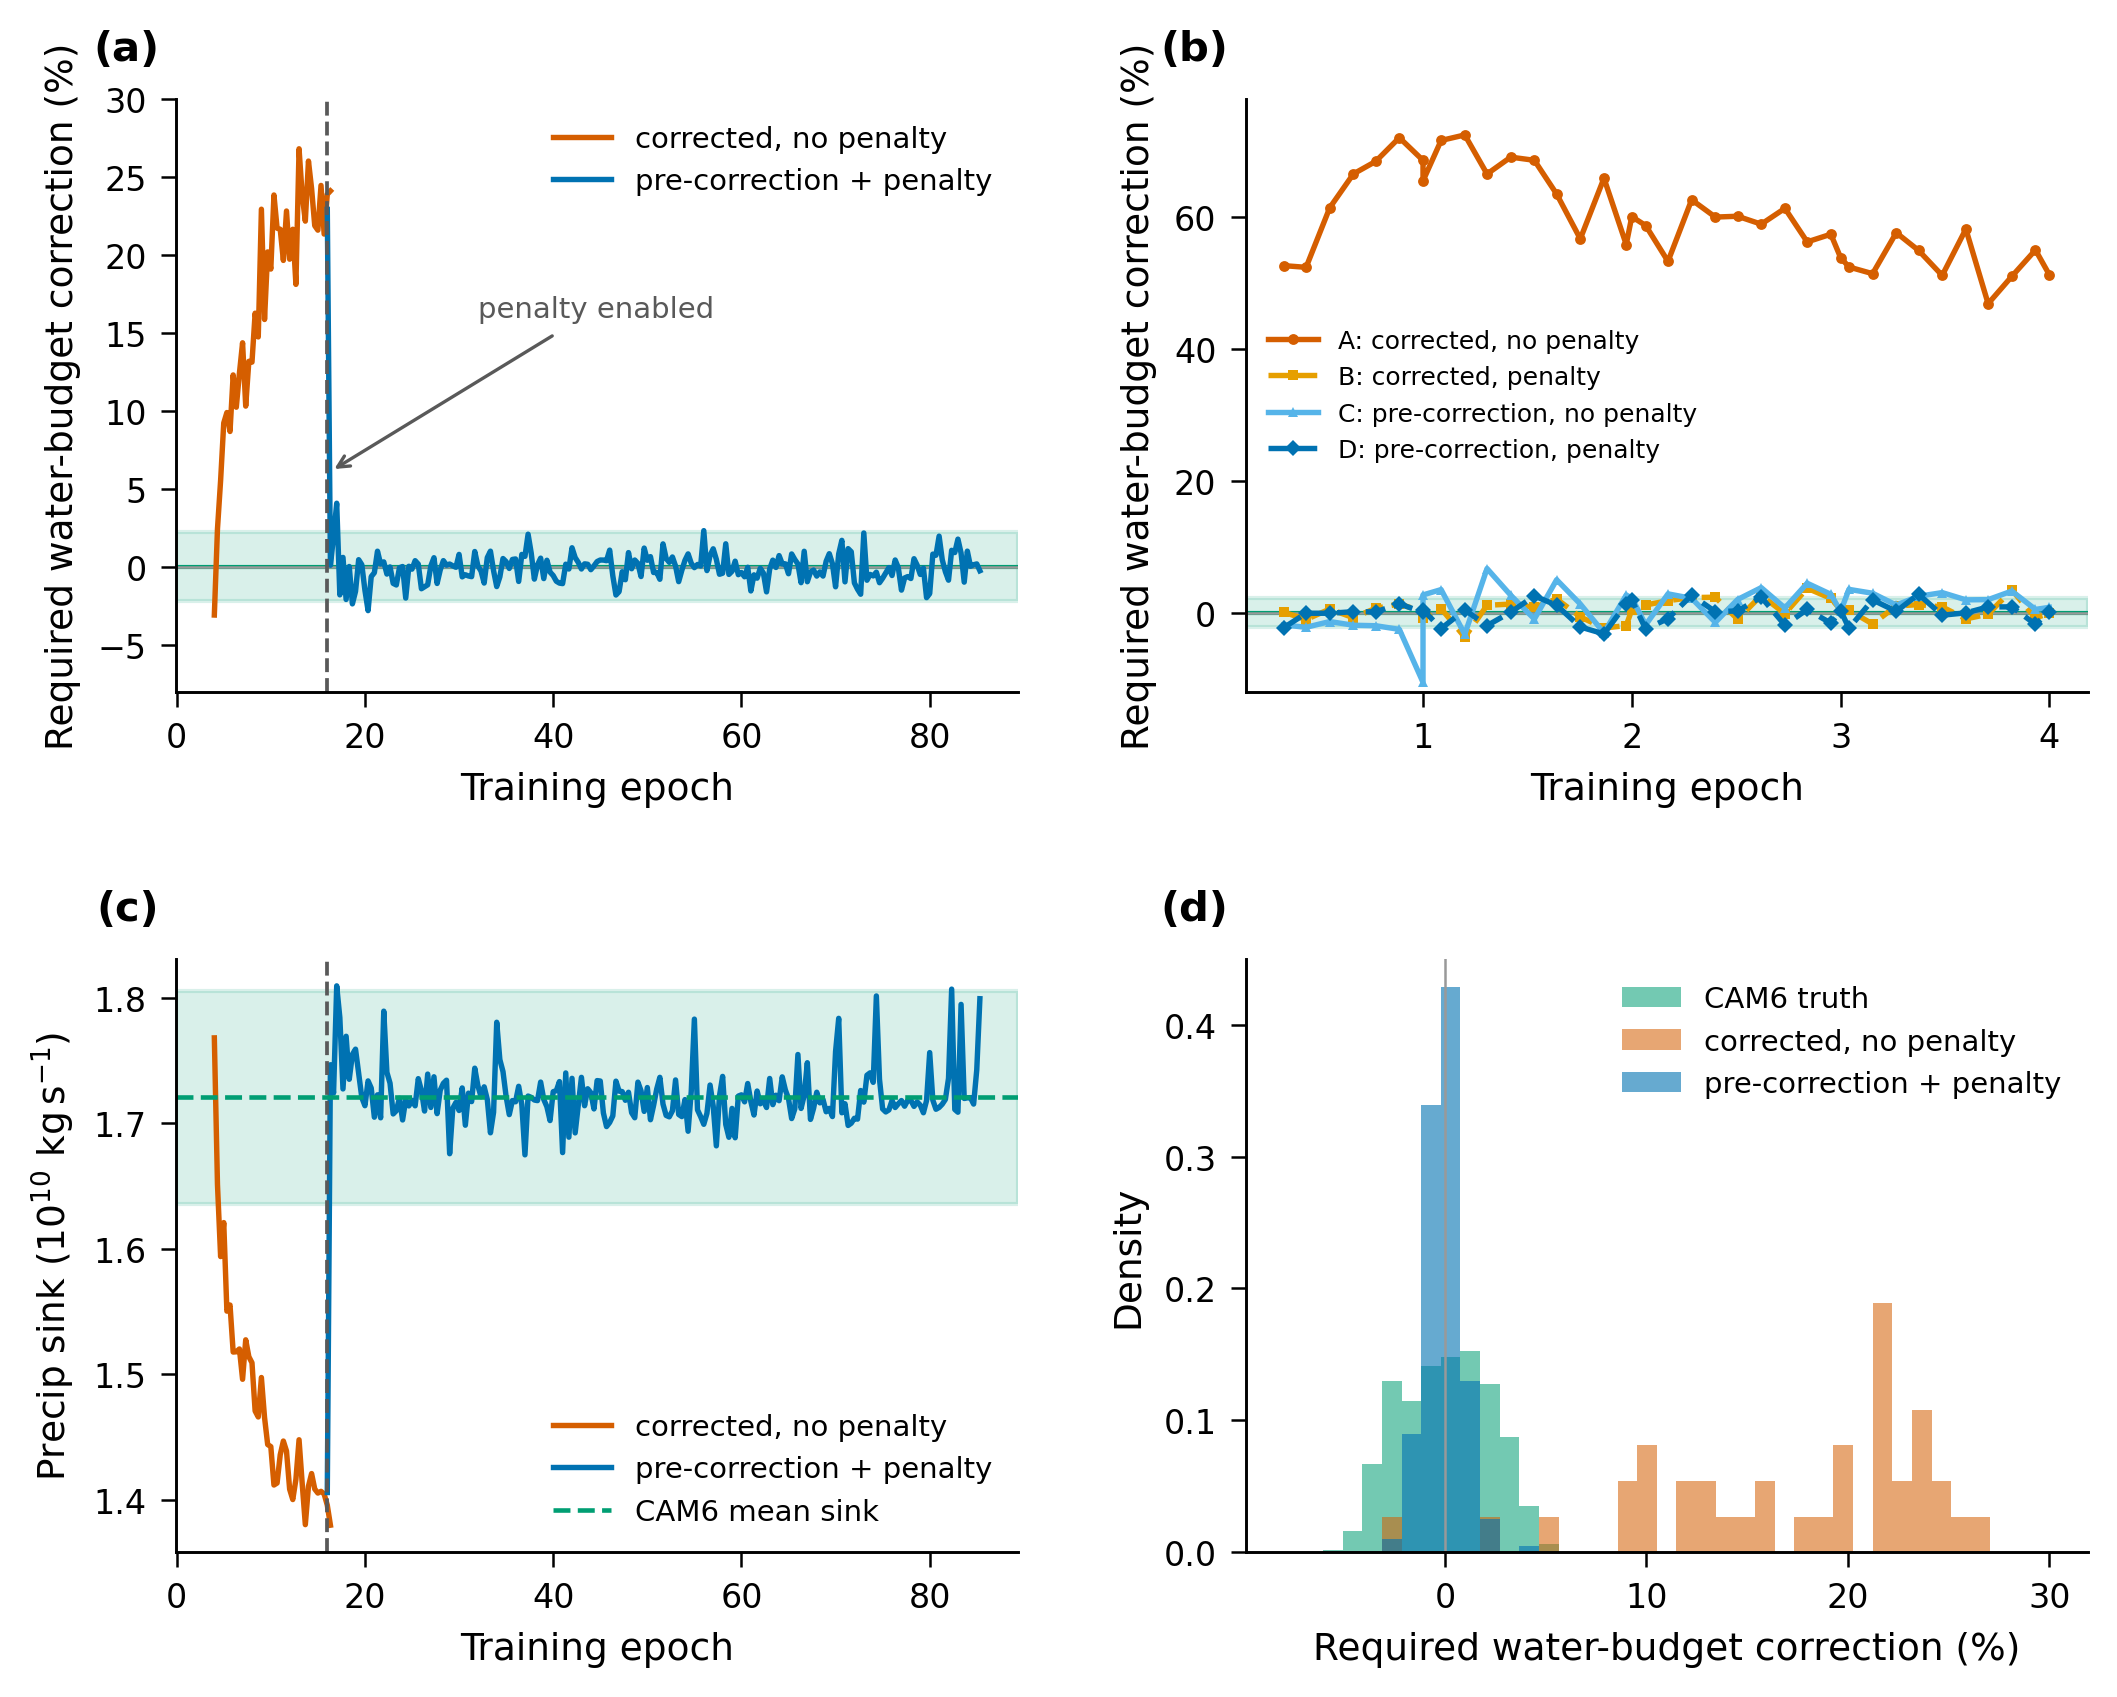
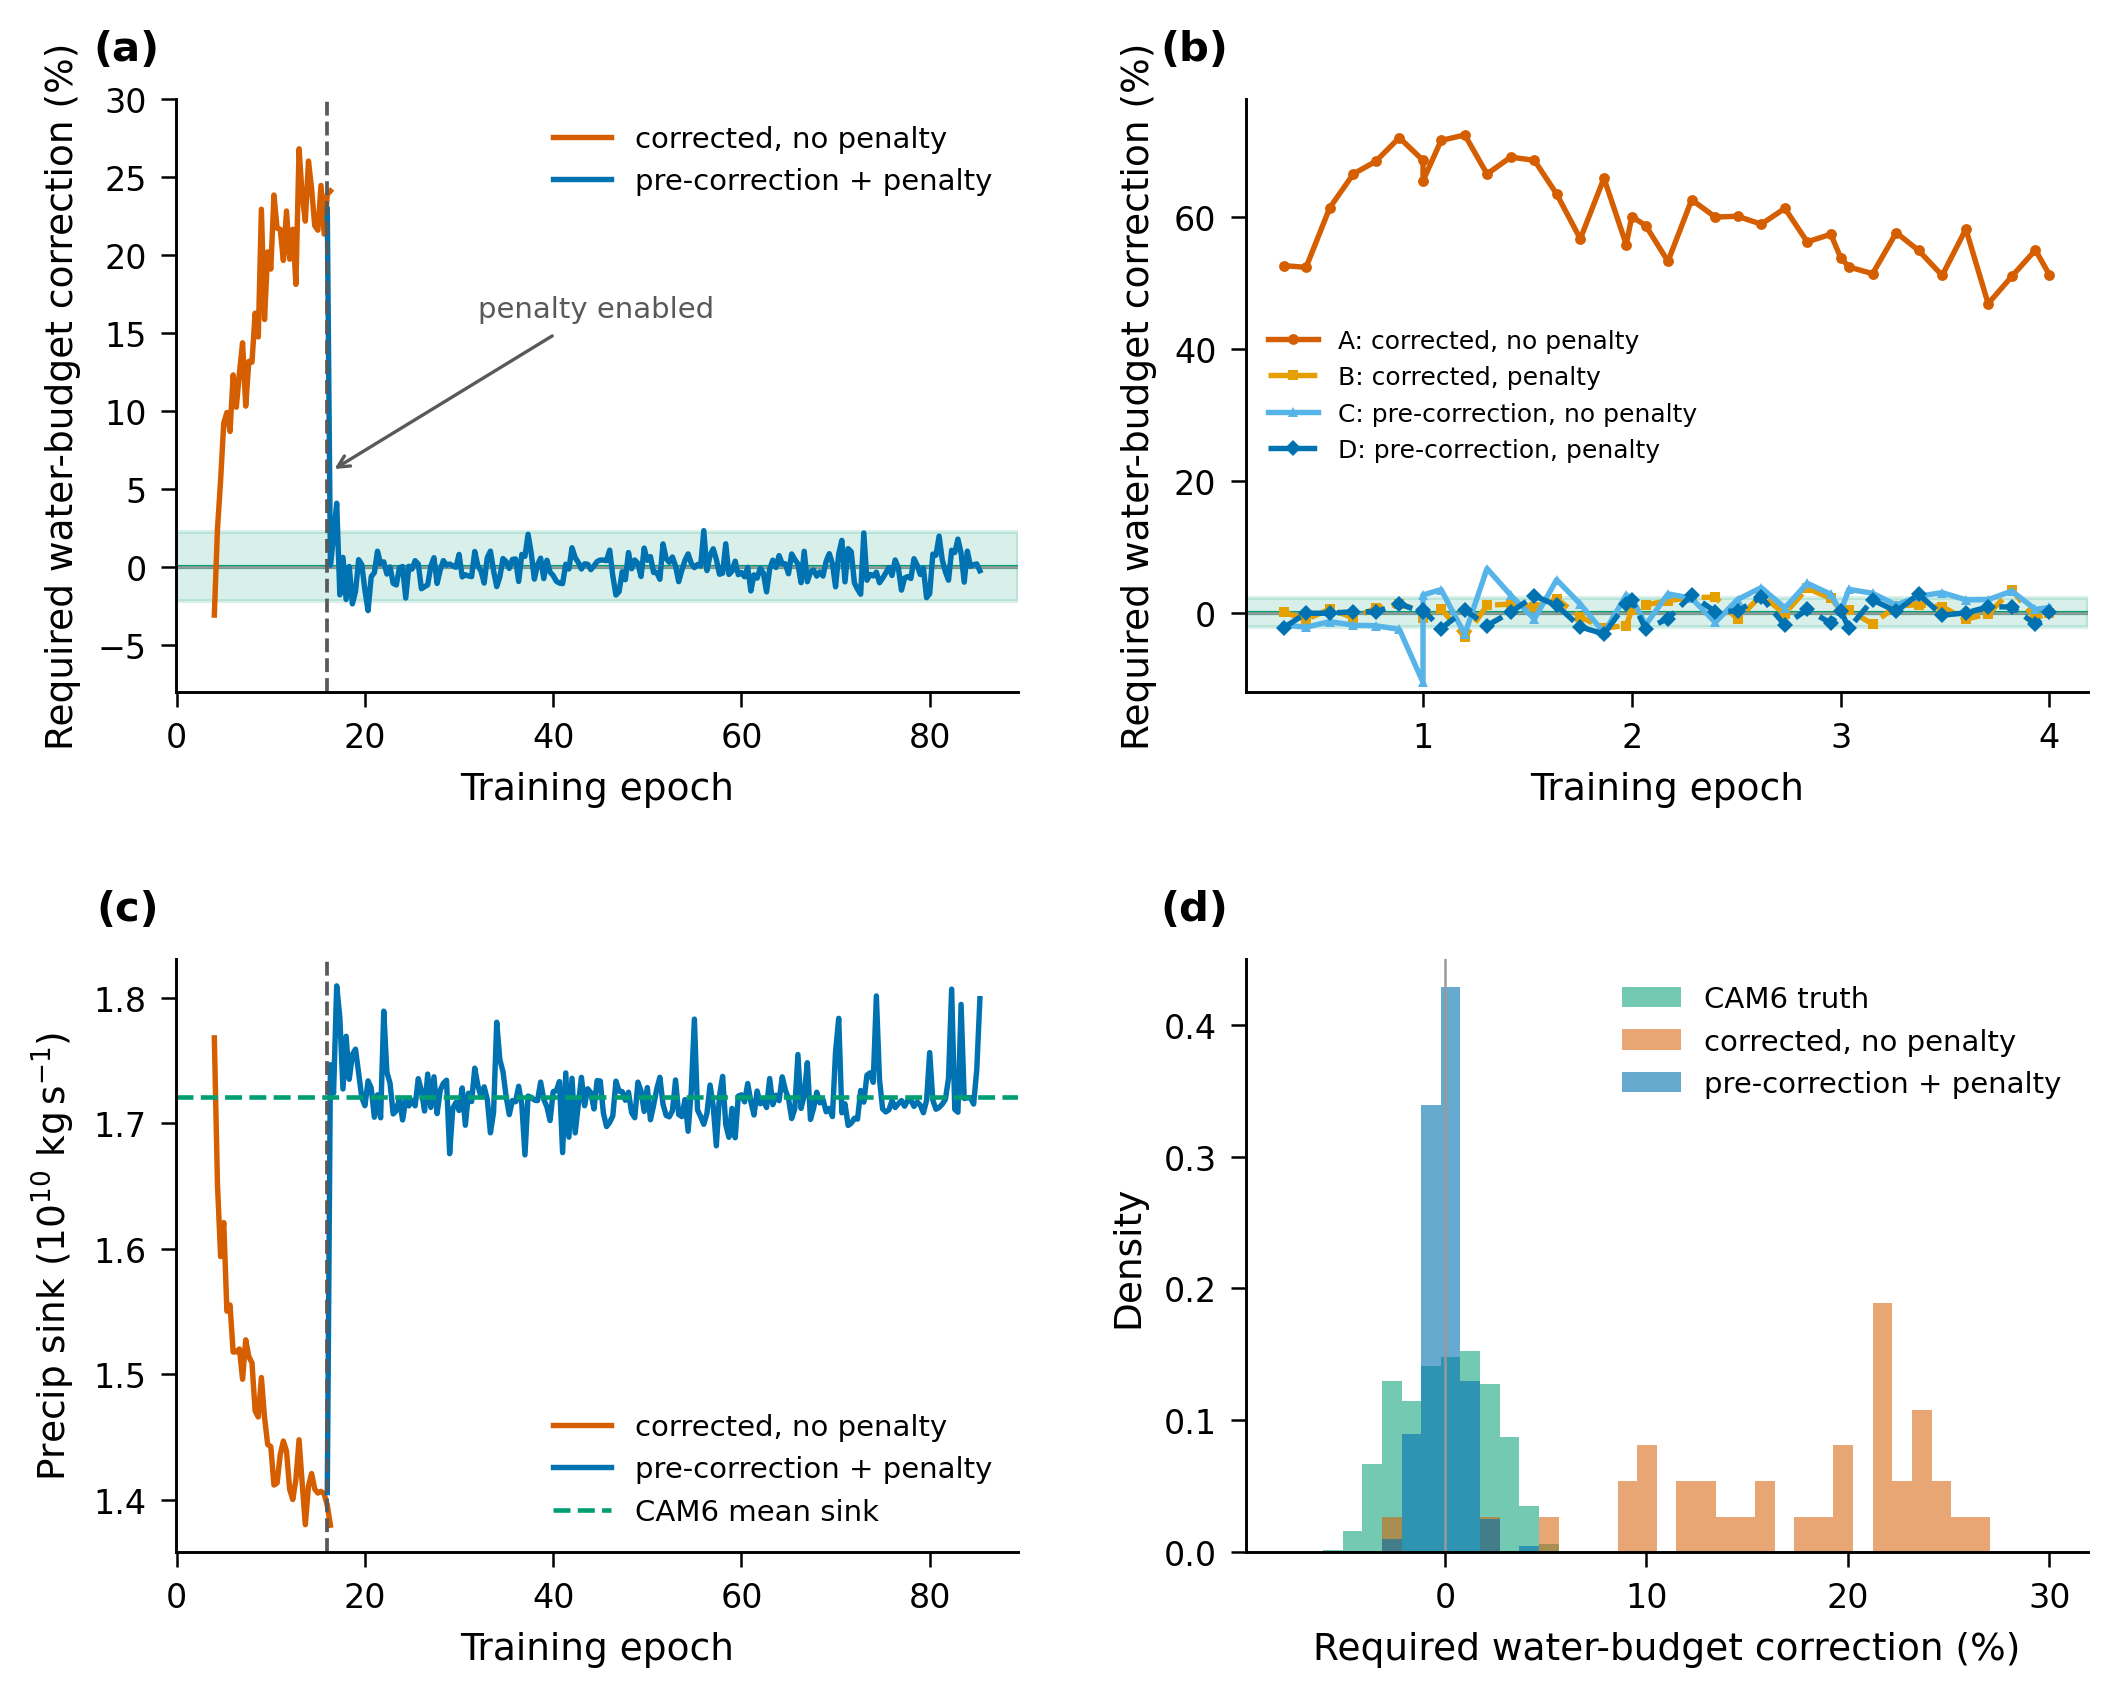
Fig. 1c: drop the CAM6 variability band, keep the mean-sink line
The +/-1sigma band invited a distracting question about why the model sink
does not fluctuate as widely as CAM6's instantaneous range, which is not the
point of the panel. Remove the shading and keep only the labeled CAM6
annual-mean sink line. Caption trimmed to match.

Changed region(s): [[0.0624, 0.5622, 0.4988, 0.7183]]

diff --git a/papers/lessons_learned_latex/main.tex b/papers/lessons_learned_latex/main.tex
@@ -126,7 +126,7 @@ The reported correction is measured per teacher-forced training step. We have no
 
 \begin{figure}[t]
 \noindent\includegraphics[width=33pc,angle=0]{fig01_drift.pdf}\\
-\caption{Global water-budget correction and the raw field it hides. (a)~In the corrected-output configuration, supervised loss is evaluated after correction and the required correction reaches about 24\% at the handoff. After switching to pre-correction supervision with a penalty weight of 0.1, it returns to the CAM6 reference band (mean 0.024\%, $\pm$ one standard deviation 2.22\%). (b)~A $2\times2$ ablation from a single checkpoint crossing the supervised target (corrected, warm colors; versus pre-correction, cool colors) with the imbalance penalty weight (0 versus 0.1), one color and marker per cell. Only cell A, corrected supervision with no penalty, runs away; supervising the pre-correction prediction (C) or adding the penalty (B) each holds drift near zero. The spreads are within-run step-to-step variation from single runs, so the three stable cells are not distinguished from one another. (c)~The raw global precipitation sink declines under corrected-output supervision and recovers under the combined formulation. The dashed line is the CAM6 annual-mean sink and the shading its $\pm$ one standard deviation across 1980 (4.9\% of the mean). (d)~Correction distributions against CAM6. Whenever the corrector is active, the delivered field closes to machine precision; the plotted quantity is the correction the raw model required.}\label{fig:drift}
+\caption{Global water-budget correction and the raw field it hides. (a)~In the corrected-output configuration, supervised loss is evaluated after correction and the required correction reaches about 24\% at the handoff. After switching to pre-correction supervision with a penalty weight of 0.1, it returns to the CAM6 reference band (mean 0.024\%, $\pm$ one standard deviation 2.22\%). (b)~A $2\times2$ ablation from a single checkpoint crossing the supervised target (corrected, warm colors; versus pre-correction, cool colors) with the imbalance penalty weight (0 versus 0.1), one color and marker per cell. Only cell A, corrected supervision with no penalty, runs away; supervising the pre-correction prediction (C) or adding the penalty (B) each holds drift near zero. The spreads are within-run step-to-step variation from single runs, so the three stable cells are not distinguished from one another. (c)~The raw global precipitation sink declines under corrected-output supervision and recovers under the combined formulation. The dashed line is the CAM6 annual-mean sink. (d)~Correction distributions against CAM6. Whenever the corrector is active, the delivered field closes to machine precision; the plotted quantity is the correction the raw model required.}\label{fig:drift}
 \end{figure}
 
 \begin{figure}[t]

diff --git a/experiments/figures/plot_fig1.py b/experiments/figures/plot_fig1.py
@@ -57,7 +57,7 @@ def main():
     cells = {c: df[df["epoch"] >= 0.25] for c, df in cells.items()}  # drop cold-start transient
 
     tm, ts = truth["drift_pct"].mean(), truth["drift_pct"].std()
-    p_truth, p_std_sink = truth["P_sink"].mean(), truth["P_sink"].std()
+    p_truth = truth["P_sink"].mean()
 
     fig, axes = plt.subplots(2, 2, figsize=(7.2, 5.7))
     fig.subplots_adjust(left=0.09, right=0.975, top=0.94, bottom=0.09, hspace=0.45, wspace=0.27)
@@ -103,8 +103,6 @@ def main():
 
     # (c) precipitation sink vs truth (production)
     ax = ax_c
-    ax.axhspan((p_truth - p_std_sink) / PSINK_SCALE, (p_truth + p_std_sink) / PSINK_SCALE,
-               color=C_TRUTH, alpha=0.15, zorder=0)
     ax.plot(pb["global_step"] / STEPS_PER_EPOCH, pb["P_sink"] / PSINK_SCALE, color=C_BROKEN,
             label="corrected, no penalty")
     ax.plot(pf["global_step"] / STEPS_PER_EPOCH, pf["P_sink"] / PSINK_SCALE, color=C_FIXED,
